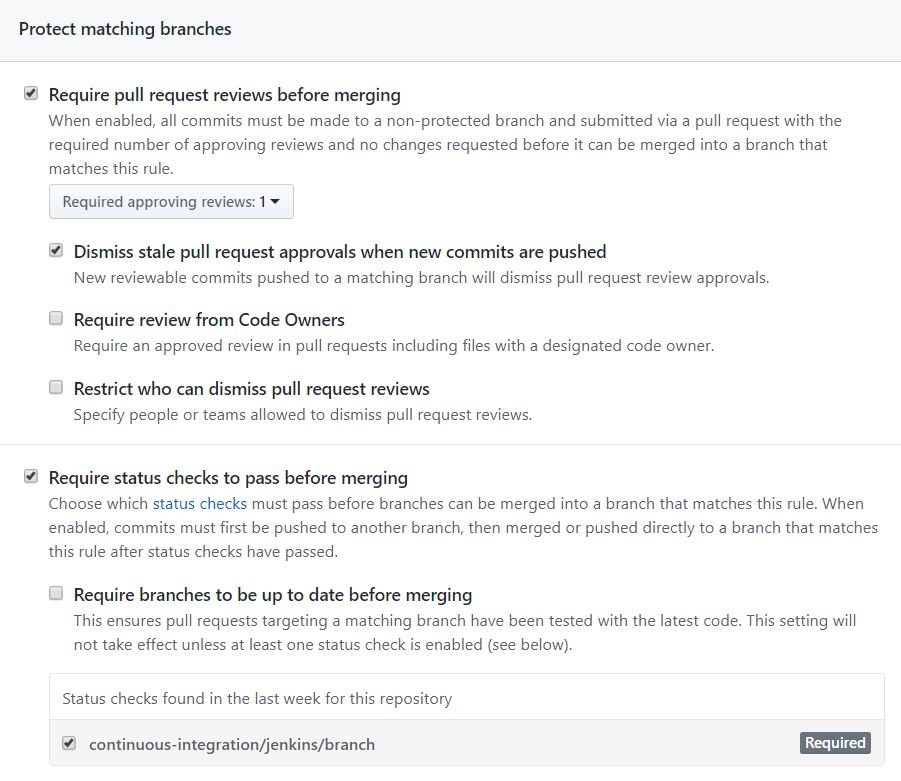
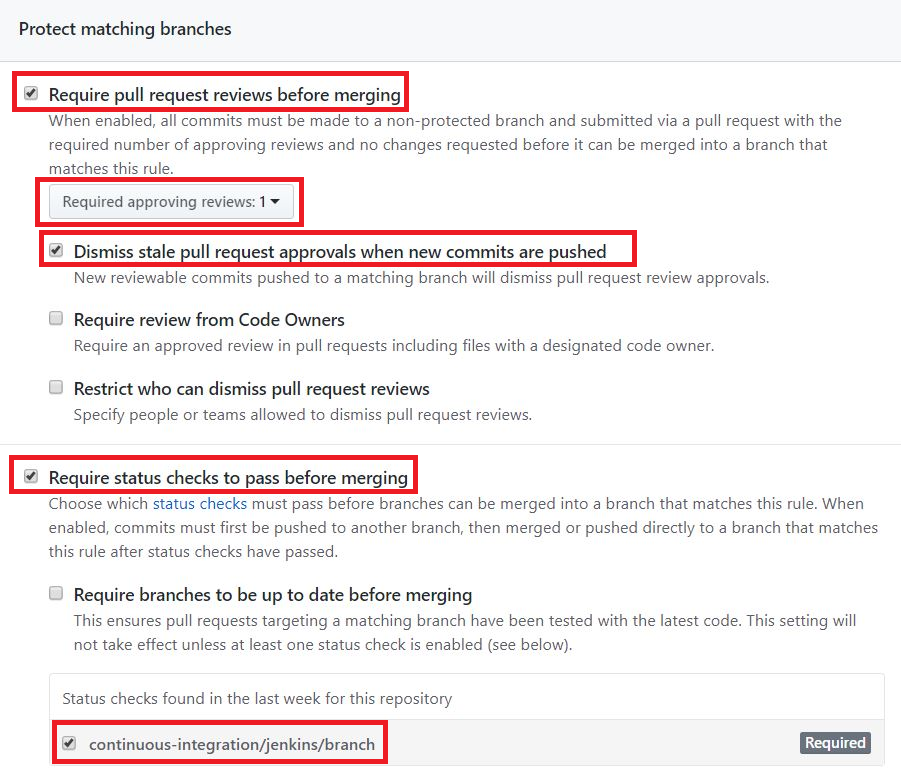
added stuff

diff --git a/jenkins-build-test-deliver/step5.md b/jenkins-build-test-deliver/step5.md
@@ -1,0 +1,87 @@
+# Configure Github webhook and branch rules
+
+Now, we will configure repo fork on Github to have a webhook URL of Jenkins that Github can use to notify Jenkins that something has changed on the Github repo fork.
+
+Then, we will add a branch rule to Github that will make no one except `<GITHUB_ADMIN_USER>` be able to push to the `master` branch directly or be able to merge any branch to `master` without both passing on Jenkins first and getting a review from at least one other reviewer.
+
+Let's take it step by step.
+
+## Configure Github webhook
+
+Do the following steps:
+
+1. In order to know the Jenkins URL that can be used as a webhook by Github to notify Jenkins of changes, we need to go to Jenkins first. So, first log in to your Jenkins instance again if you are not logged in already.
+
+1. When you have logged in, go to Jenkins home page by clicking on Jenkins logo on the top left.  
+![](./assets/jenkins_home.png)
+
+1. Then, click on `Manage Jenkins` on the left part of the screen.  
+![](./assets/manage_jenkins.png)
+
+1. Then, click on `Configure System`.  
+![](./assets/configure_system.png)
+
+1. A new page will appear. Scroll down until you find a section called `Github`. Click on the blue `?` (help) icon to show more information about this section. This will show you the webhook URL of Jenkins that Github can use (marked in blue in the image). Copy the URL.  
+![](./assets/webhook_address.png)
+
+1. Now go to your organization's repo fork `https://github.com/<ORGANIZATION ACCOUNT NAME>/sample-project-repo`{{copy}}, where `<ORGANIZATION ACCOUNT NAME>` is replaced by your organization's account name. In my case, this URL is `https://github.com/devops-pipeline-tutorial/sample-project-repo`. Then, click on your repo settings.  
+![](./assets/settings_org.png)
+
+1. Then, click on `Webhooks` on the left.  
+![](./assets/webhook.png)
+
+1. Then, click on `Add webhook` on the right.  
+![](./assets/add_webhook.png)
+
+1. Then, paste the webhook URL that you copied in a previous step in `Payload URL` field. Then, select `application/json` as the `Content type`.  
+![](./assets/webhook_details1.png)
+
+1. Then, under `Which events would you like to trigger this webhook?`, select `Let me select individual events` option.  
+![](./assets/select_individual_events.png)
+
+1. A number of options will appear. Select the following `events` from them:
+  * `Branch or tag creation`.  
+  ![](./assets/option1.png)
+  * `Branch or tag deletion`.  
+  ![](./assets/option2.png)
+  * `Pull requests`.  
+  ![](./assets/option3.png)
+  * `Pushes`.  
+  ![](./assets/option4.png)
+  * `Statuses`.  
+  ![](./assets/option5.png)
+
+1. Then, at the bottom of the page, click on the green button called `Add webhook`.
+![](./assets/add_webhook_button.png)
+
+Now, you have added a webhook.
+
+## Configure a rule for `master` branch.
+
+Do the following steps:
+
+1. Now go to your organization's repo fork `https://github.com/<ORGANIZATION ACCOUNT NAME>/sample-project-repo`{{copy}}, where `<ORGANIZATION ACCOUNT NAME>` is replaced by your organization's account name. In my case, this URL is `https://github.com/devops-pipeline-tutorial/sample-project-repo`. Then, click on your repo settings.  
+![](./assets/settings_org.png)
+
+1. Then, click on `Branches` on the left.  
+![](./assets/branches_github.png)
+
+1. Then, click on `Add rule` on the right.  
+![](./assets/add_rule.png)
+
+1. A form will appear. Type `master` under `Branch name pattern`.  
+![](./assets/branch_name_rule.png)
+
+1. Now, select the following options:
+  * `Require pull request reviews before merging`.
+    * `Required approving reviews: 1`.
+    * `Dismiss stale pull request approvals when new commits are pushed`.
+  * `Require status checks to pass before merging`
+    * `continuous-integration/jenkins/branch`.
+
+  ![](./assets/rules.png)
+
+1. Then, click on `Create` button at the bottom.  
+![](./assets/create_button.png)
+
+Now, you have added a branch rule for `master` branch.

diff --git a/jenkins-build-test-deliver/step4.md b/jenkins-build-test-deliver/step4.md
@@ -8,7 +8,10 @@ Do the following steps:
 
 1. Go to this URL https://[[HOST_SUBDOMAIN]]-8080-[[KATACODA_HOST]].environments.katacoda.com/, and log in (if you are not already logged in) using the `<USERNAME>` created in `Step 1` in this tutorial.
 
-1. When you have logged in, click on `New Item` on the left part of the screen.  
+1. When you have logged in, go to Jenkins home page by clicking on Jenkins logo on the top left.  
+![](./assets/jenkins_home.png)
+
+1. Then, click on `New Item` on the left part of the screen.  
 ![](./assets/new_item.png)
 
 1. A new form will appear. Type in the item name (call it `<ITEM NAME>`). I will choose `<ITEM NAME>`=`sample-project-pipeline`.  

diff --git a/jenkins-build-test-deliver/step7.md b/jenkins-build-test-deliver/step7.md
@@ -1,0 +1,1 @@
+# Clone the repo fork and introduce an error and push

diff --git a/jenkins-build-test-deliver/step6.md b/jenkins-build-test-deliver/step6.md
@@ -1,0 +1,1 @@
+# Invite a collaborator with `Write` access

diff --git a/jenkins-build-test-deliver/step8.md b/jenkins-build-test-deliver/step8.md
@@ -1,0 +1,1 @@
+# Fix the error and push again

diff --git a/jenkins-build-test-deliver/finish.md b/jenkins-build-test-deliver/finish.md
@@ -1,0 +1,1 @@
+# Fun facts
